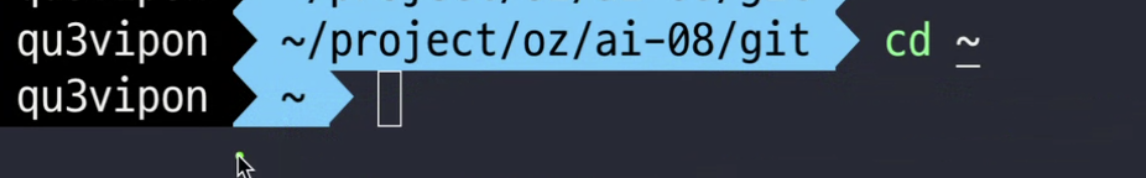
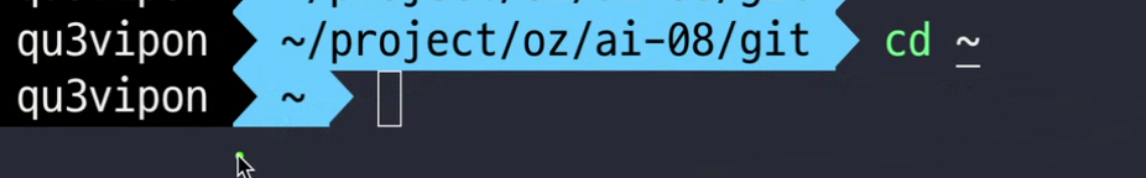
261118과제

Changed region(s): [[0.1832, 0.0, 0.8246, 0.7022]]

diff --git a/261118과제.md b/261118과제.md
@@ -19,7 +19,7 @@
 
 → `git init`이 `~`에서 실행되면 **모든 경로에 버전 관리가 적용**되어 버리기 때문에 문제가 된다.
 
-![alt text](image-6.png)
+![alt text](image.png)
 
 ---
 
@@ -49,11 +49,11 @@
 - 빨리 감기로 따라잡는 것 = **Fast-Forward Merge** (기본 동작)
 - 항상 이런 방식으로만 되는 것은 아님 → 앞으로 마주하게 될 문제 …
 
-
+![alt text](image-2.png)
 
 ### FF가 안 될 때
 
-![alt text](image-2.png)
+![alt text](image-3.png)
 
 - 커밋을 하나 더 만들어서 **공통적인 커밋**을 만든다.
 - 일반적으로 커밋은 (새로운 파일을 만드는 등) 변경사항을 가했을 때 하나의 버전을 만드는 것.
@@ -68,7 +68,7 @@
    - 브랜치 생성
    - `main`, `feat/ui`, `feat/ai`가 같은 선상에 있는지 확인 필요
 
-![alt text](image-3.png)
+![alt text](image-4.png)
 
 ---
 
@@ -85,8 +85,10 @@
 
 업로드할 주소 등록 (터미널) / push 하는 것
 
-![alt text](image-4.png)
-
-
 ![alt text](image-5.png)
+
+![alt text](image-6.png)
+
+
+
 
